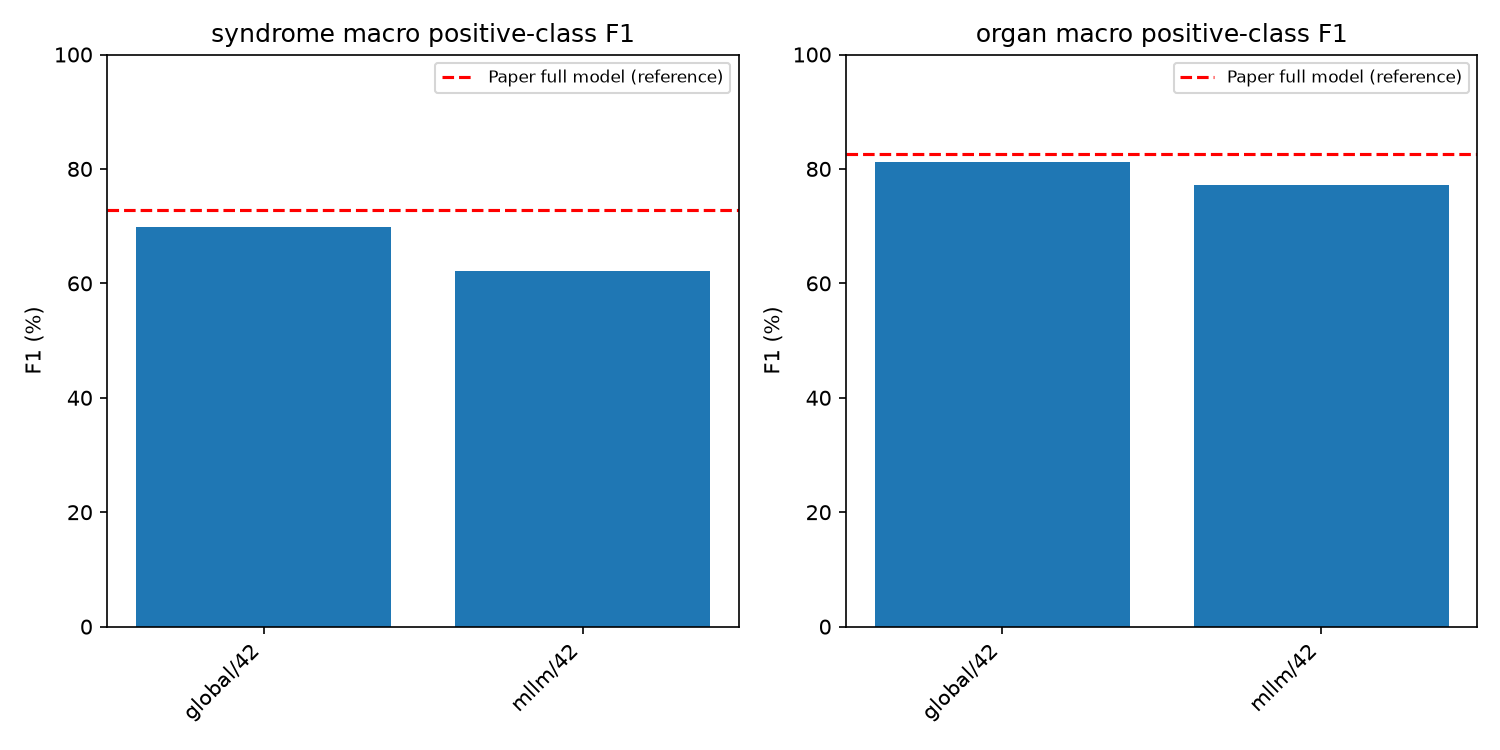
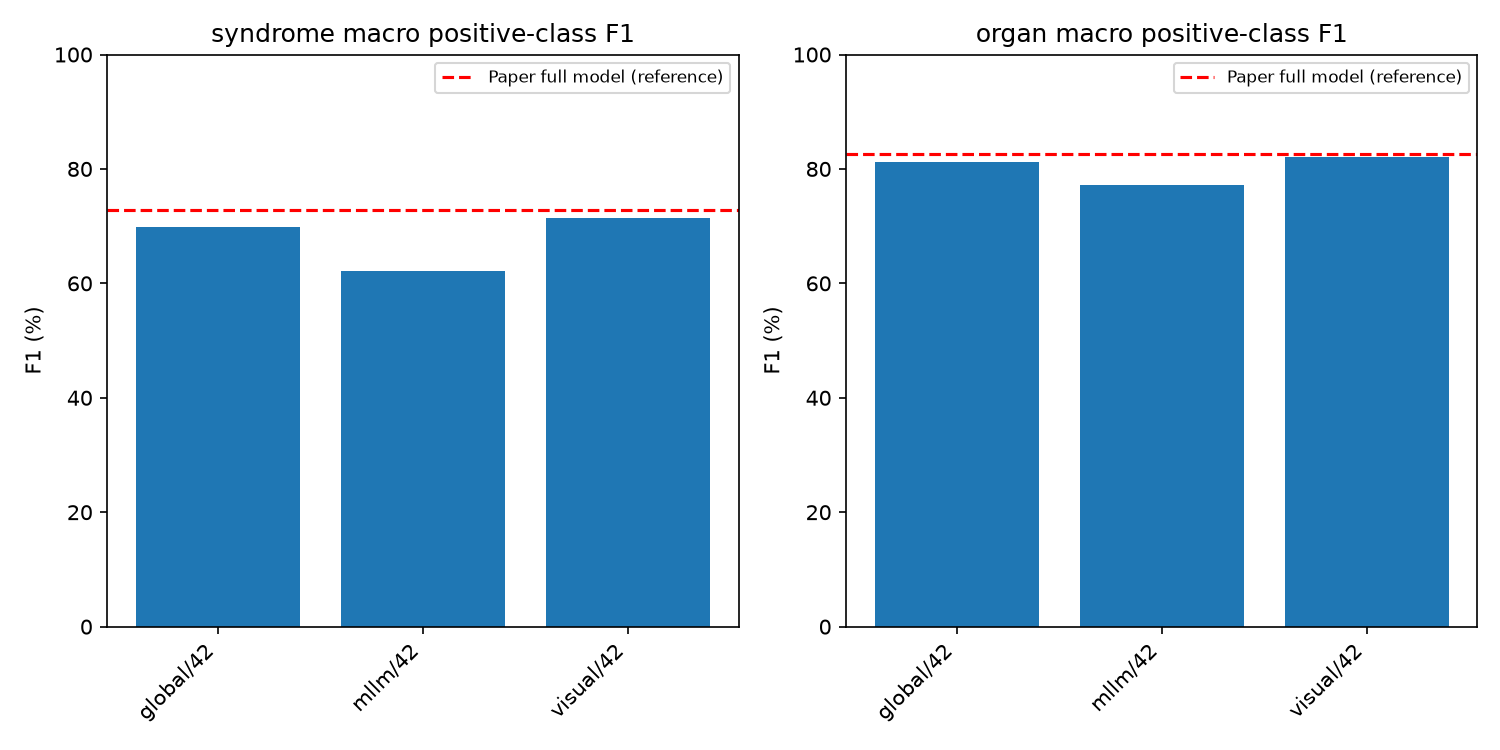
results: visual seed 42 reproduction milestone

diff --git a/reports/reproduction/20261005_042629_774918_suite/reproduction_report.md b/reports/reproduction/20261005_042629_774918_suite/reproduction_report.md
@@ -11,6 +11,7 @@ code_compat 保留独立七图增强、无 ImageNet normalization、global-only 
 | --- | ---: | ---: | ---: | ---: |
 | global | 42 | 104 | 85.32 / 69.88 | 78.79 / 81.18 |
 | mllm | 42 | 30 | 74.32 / 62.09 | 69.68 / 77.20 |
+| visual | 42 | 49 | 84.76 / 71.47 | 79.53 / 82.09 |
 
 六组消融和主模型多 seed 的运行状态见 `run_status.json`；未完成时不宣称整个复现完成。
 TVMoE 等外部实现/同 split 逐图预测、论文 Sankey 8×5 公式仍缺失，不能复现对应比较和图。
